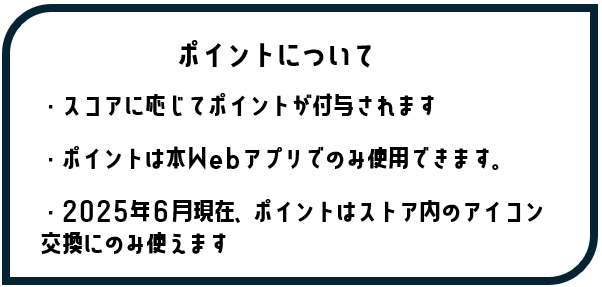
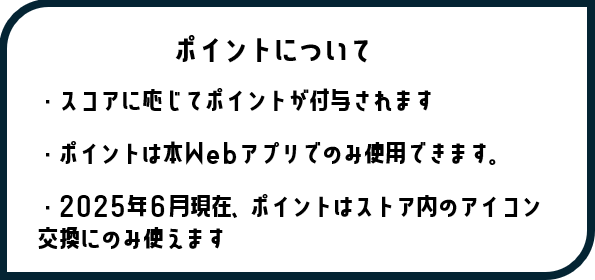
画像サイズ調整

diff --git a/source/src/main/webapp/css/help.css b/source/src/main/webapp/css/help.css
@@ -29,7 +29,8 @@
 .rectangle {
   width: 100%;
   background-color: #fafafb;
-  clip-path: polygon(0% 0%, calc(100% - 67.5px) 0%, 100% 67.5px, 100% 100%, 0% 100%);
+  clip-path: polygon(0% 0%, calc(100% - 67.5px) 0%, 100% 67.5px, 100% 100%, 0%
+		100%);
   padding: 40px 20px;
   position: relative;
   border: 2px solid #555;
@@ -68,7 +69,7 @@
 /* ボタン共通スタイル */
 .help-button {
   width: 100%;
-  max-width: 270px;
+  max-width: 270px; 
   min-width: 270px;
   padding: 12px;
   font-size: 24px;
@@ -167,7 +168,7 @@
   background: rgba(0, 0, 0, 0.6);
   justify-content: center;
   align-items: center;
-  z-index: 9999;
+  z-index: 9999; /* フレームより上 */
 }
 
 /* ポップアップ本体 */
@@ -178,25 +179,22 @@
   position: relative;
   max-width: 90vw;
   max-height: 80vh;
-  overflow: visible;  
+  overflow: auto;
   box-shadow: 0 4px 8px rgba(0, 0, 0, 0.3);
-  box-sizing: border-box;
 }
 
 /* 閉じるボタン */
 .popup-close {
   position: absolute;
-  top: 10px;
-  right: 10px;
-  font-size: 1.5em;
+  top: 30px;
+  right: 35px;
+  font-size: 30px;
   font-weight: bold;
   color: #333;
   cursor: pointer;
-  z-index: 10;
-  transform: none;  
 }
 
-/* ポップアップ画像（任意） */
+/* ポップアップ画像 */
 .popup-image {
   max-width: 100%;
   height: auto;
@@ -205,7 +203,6 @@
   max-height: 60vh;
 }
 
-/* モバイル対応 */
 @media screen and (max-width: 600px) {
   .rectangle-big {
     width: 95%;
@@ -221,8 +218,9 @@
     font-size: 18px;
     padding: 4px 8px;
     top: -20px;
-    left: 4px;
+    left: 4px; 
   }
+ 
 
   .help-button {
     font-size: 18px;
@@ -237,16 +235,17 @@
     font-size: 16px;
   }
 
+
+
   .popup-content {
     width: 90%;
-    padding: 16px;
-    max-height: 75vh;
+    padding: 15px;
   }
 
   .popup-close {
-    font-size: 1.2em;
+    font-size: 20px;
     top: 8px;
-    right: 8px;
+    right: 12px;
   }
 
   .popup-image {
